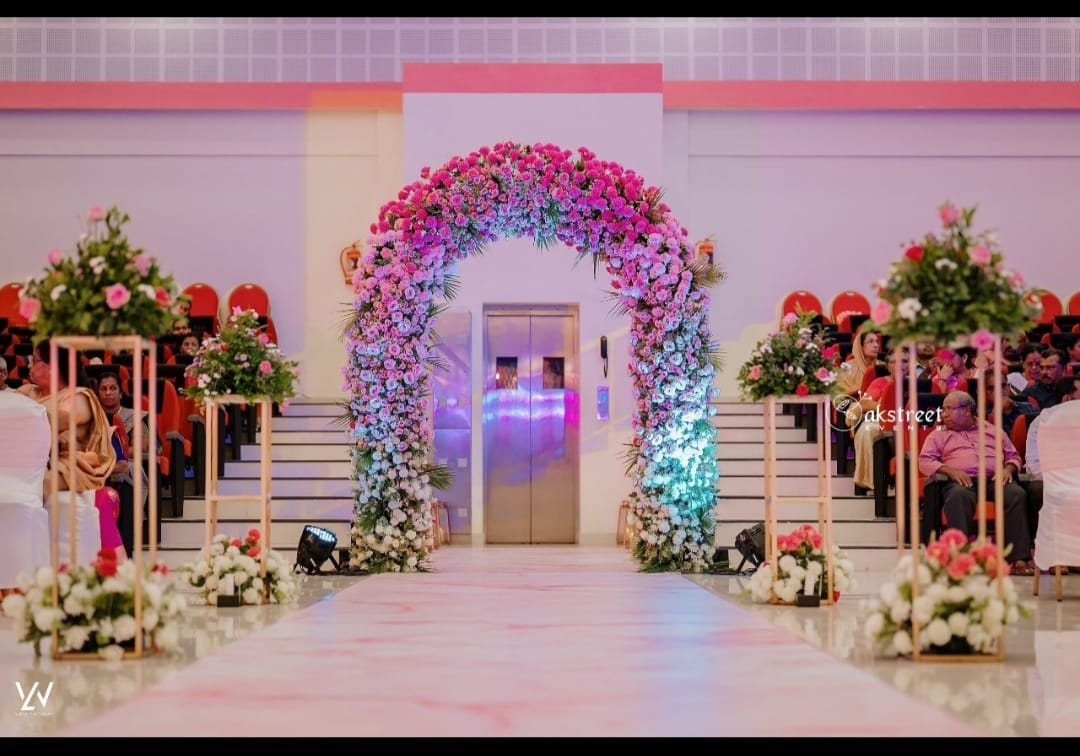
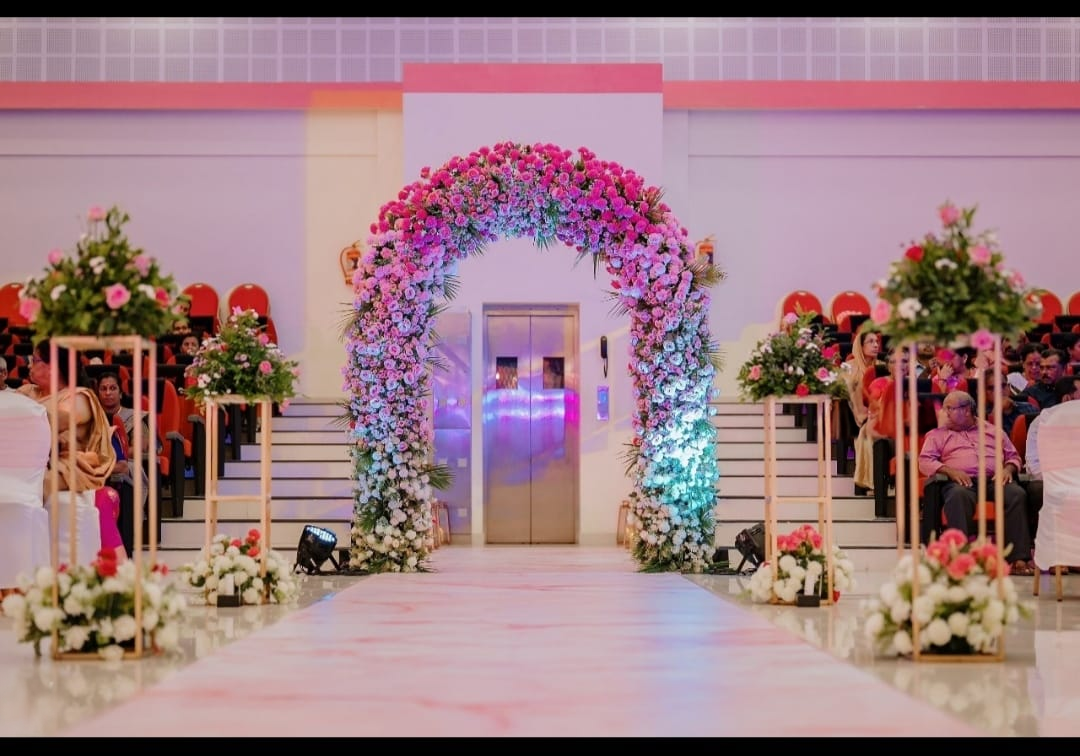
First Draft

Changed region(s): [[0.7333, 0.4868, 0.8861, 0.578], [0.0, 0.8823, 0.0611, 0.9431]]

diff --git a/portfolio.html b/portfolio.html
@@ -46,11 +46,12 @@
             width: 100%;
             height: auto;
             display: block;
+            transform: scale(1.03);
             transition: transform var(--trans-slow);
         }
 
         .masonry-item:hover img {
-            transform: scale(1.05);
+            transform: scale(1.08);
         }
 
         /* Lightbox specific CSS */
@@ -163,7 +164,7 @@
                 </a>
 
                 <a href="#" class="masonry-item portfolio-item-image fade-up">
-                    <img src="./Image/reveal 1.jpeg" alt="Corporate gala setup">
+                    <img src="./Image/Reveal 1.jpeg" alt="Corporate gala setup">
                 </a>
 
                 <a href="#" class="masonry-item portfolio-item-image fade-up">
@@ -191,11 +192,11 @@
                 </a>
 
                 <a href="#" class="masonry-item portfolio-item-image fade-up">
-                    <img src="./Image/reveal 2.jpeg" alt="Corporate gala setup">
+                    <img src="./Image/Reveal 2.jpeg" alt="Corporate gala setup">
                 </a>
 
                 <a href="#" class="masonry-item portfolio-item-image fade-up">
-                    <img src="./Image/reveal 3.jpeg" alt="Corporate gala setup">
+                    <img src="./Image/Reveal 3.jpeg" alt="Corporate gala setup">
                 </a>
 
                                 <a href="#" class="masonry-item portfolio-item-image fade-up">

diff --git a/index.html b/index.html
@@ -142,11 +142,12 @@
             width: 100%;
             height: 100%;
             object-fit: cover;
+            transform: scale(1.03);
             transition: transform var(--trans-slow);
         }
 
         .category-card:hover img {
-            transform: scale(1.1);
+            transform: scale(1.13);
         }
 
         .category-overlay {
@@ -185,11 +186,12 @@
             width: 100%;
             height: 100%;
             object-fit: cover;
+            transform: scale(1.03);
             transition: transform var(--trans-slow);
         }
 
         .portfolio-item:hover img {
-            transform: scale(1.05);
+            transform: scale(1.08);
         }
 
         /* WHY US PREVIEW */

diff --git a/js/script.js b/js/script.js
@@ -10,7 +10,7 @@ class CustomNavbar extends HTMLElement {
     <header class="${headerClass}">
         <div class="container nav-container">
             <a href="index.html" class="logo">
-                <img src="./image/Golden logo.png" alt="Golden Frames Logo" class="logo-image">
+                <img src="./Image/Golden logo.png" alt="Golden Frames Logo" class="logo-image">
                 <span class="logo-text">Golden Frames</span>
             </a>
             <button class="hamburger" aria-label="Toggle Navigation">

diff --git a/events.html b/events.html
@@ -46,6 +46,7 @@
             width: 100%;
             height: 300px;
             object-fit: cover;
+            transform: scale(1.03);
         }
 
         .event-large-content {
